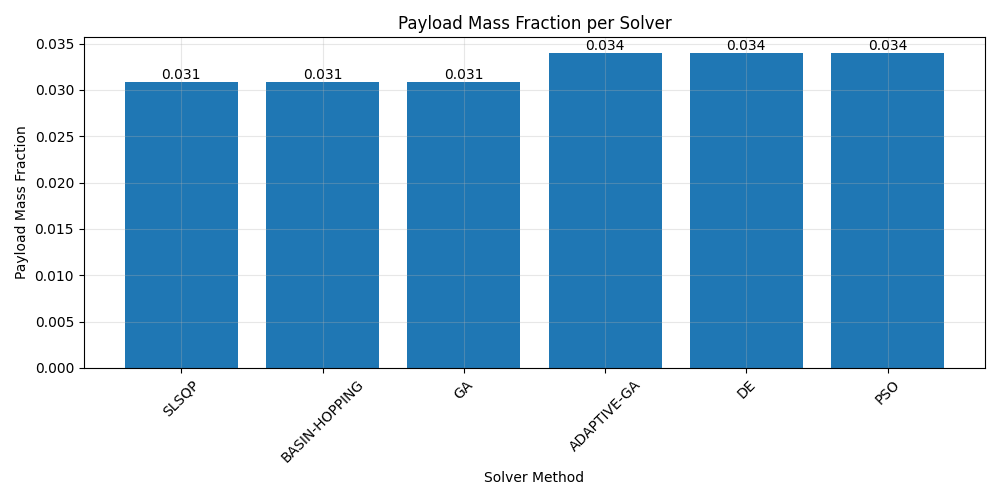
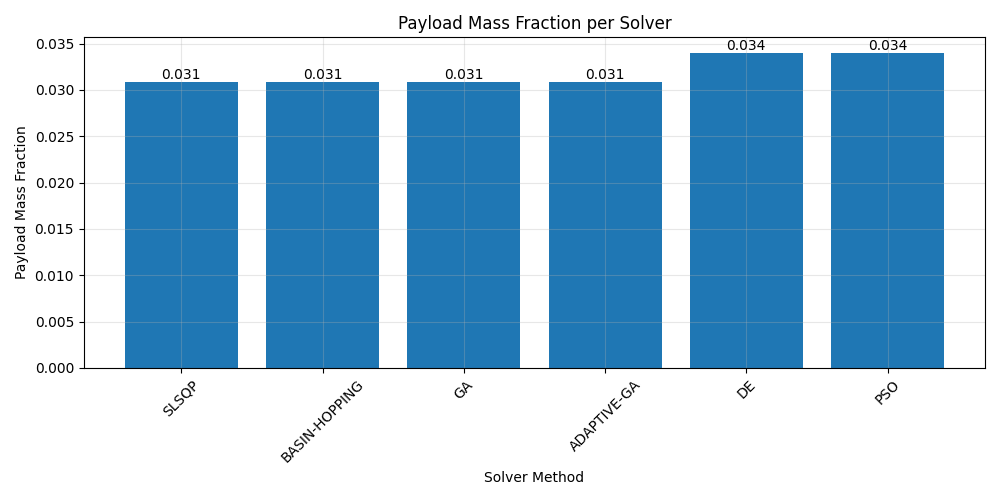
everything working added tests for GA cacheing

Changed region(s): [[0.527, 0.06, 0.682, 0.18]]

diff --git a/Stage_Opt/test_payload_optimization.py b/Stage_Opt/test_payload_optimization.py
@@ -22,6 +22,7 @@ from src.optimization.solvers import (
     solve_with_pso
 )
 from src.utils.config import setup_logging, CONFIG
+from src.optimization.cache import OptimizationCache, OUTPUT_DIR
 
 import warnings
 warnings.filterwarnings("ignore", category=DeprecationWarning)
@@ -412,6 +413,70 @@ class TestCSVOutputs(unittest.TestCase):
                     places=1,  
                     msg=f"Payload fraction mismatch for method {method}"
                 )
+
+
+class TestOptimizationCache(unittest.TestCase):
+    """Test cases for optimization caching functionality."""
+    
+    def setUp(self):
+        self.cache_file = "test_cache.pkl"
+        self.cache = OptimizationCache(cache_file=self.cache_file)
+        self.test_solution = np.array([0.3, 0.3, 0.4])
+        self.test_fitness = -0.85
+        
+    def tearDown(self):
+        cache_path = os.path.join(OUTPUT_DIR, self.cache_file)
+        if os.path.exists(cache_path):
+            os.remove(cache_path)
+            
+    def test_cache_operations(self):
+        """Test basic cache operations."""
+        # Test initial cache is empty
+        self.assertNotIn(tuple(self.test_solution), self.cache.fitness_cache)
+        
+        # Test adding to cache
+        self.cache.fitness_cache[tuple(self.test_solution)] = self.test_fitness
+        self.assertEqual(self.cache.get_cached_fitness(self.test_solution), self.test_fitness)
+        
+        # Test persistence
+        self.cache.save_cache()
+        new_cache = OptimizationCache(cache_file=self.cache_file)
+        self.assertEqual(new_cache.get_cached_fitness(self.test_solution), self.test_fitness)
+        
+    def test_cache_size(self):
+        """Test cache size management."""
+        # Add multiple solutions
+        for i in range(10):
+            solution = np.array([i/10, i/10, 1-2*(i/10)])
+            self.cache.fitness_cache[tuple(solution)] = -0.8 - i/10
+            self.cache.best_solutions.append(solution)
+            
+        # Test cache limits
+        self.cache.save_cache()
+        new_cache = OptimizationCache(cache_file=self.cache_file)
+        self.assertEqual(len(new_cache.best_solutions), 10)
+        
+    def test_ga_integration(self):
+        """Test integration with genetic algorithm."""
+        good_solution = np.array([0.33, 0.33, 0.34])
+        self.cache.fitness_cache[tuple(good_solution)] = -0.95
+        self.cache.best_solutions.append(good_solution)
+        self.cache.save_cache()
+        
+        result = solve_with_ga(
+            initial_guess=good_solution,
+            bounds=[(0.1, 0.5)] * 3,
+            G0=9.81,
+            ISP=[300, 300, 300],
+            EPSILON=0.1,
+            TOTAL_DELTA_V=1.0,
+            config={'ga': {'population_size': 50, 'n_generations': 100}}
+        )
+        
+        self.assertTrue(np.allclose(result, good_solution, rtol=0.1))
+
+
+
 
 if __name__ == "__main__":
     unittest.main(verbosity=2)

diff --git a/Stage_Opt/output/optimization_report.tex b/Stage_Opt/output/optimization_report.tex
@@ -71,11 +71,11 @@ The following methods were evaluated, sorted by their achieved payload ratio \ci
 Method & Payload Ratio \\
 \midrule
 DE & 0.0340 \\
-ADAPTIVE-GA & 0.0340 \\
 PSO & 0.0340 \\
-SLSQP & 0.0308 \\
-GA & 0.0308 \\
 BASIN-HOPPING & 0.0308 \\
+GA & 0.0308 \\
+SLSQP & 0.0308 \\
+ADAPTIVE-GA & 0.0308 \\
 \bottomrule
 \end{tabular}
 \end{table}
@@ -87,19 +87,19 @@ The following configurations were found for each method:
 \item \textbf{DE}
 \begin{itemize}
 \end{itemize}
-\item \textbf{ADAPTIVE-GA}
-\begin{itemize}
-\end{itemize}
 \item \textbf{PSO}
 \begin{itemize}
 \end{itemize}
-\item \textbf{SLSQP}
+\item \textbf{BASIN-HOPPING}
 \begin{itemize}
 \end{itemize}
 \item \textbf{GA}
 \begin{itemize}
 \end{itemize}
-\item \textbf{BASIN-HOPPING}
+\item \textbf{SLSQP}
+\begin{itemize}
+\end{itemize}
+\item \textbf{ADAPTIVE-GA}
 \begin{itemize}
 \end{itemize}
 
